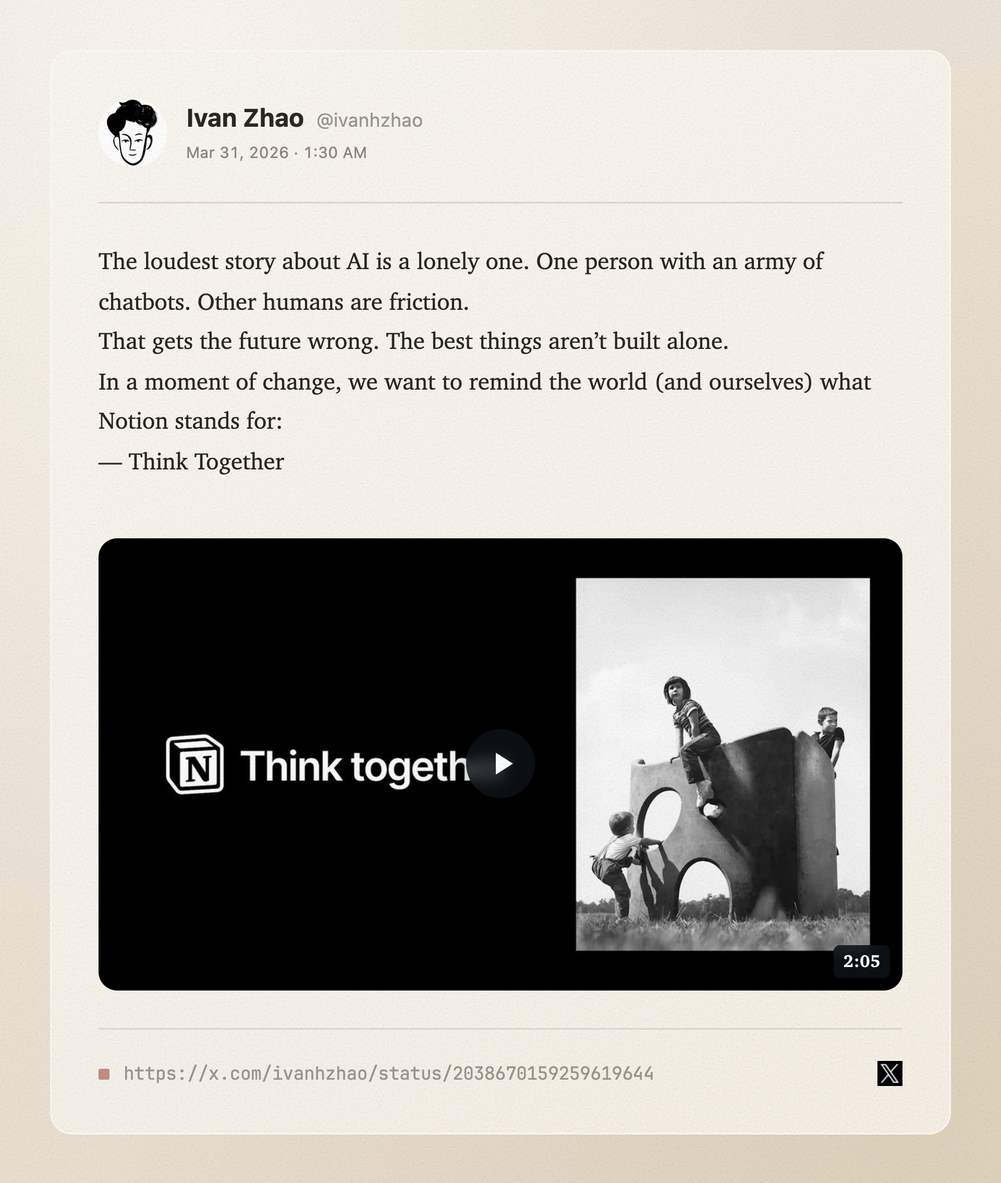
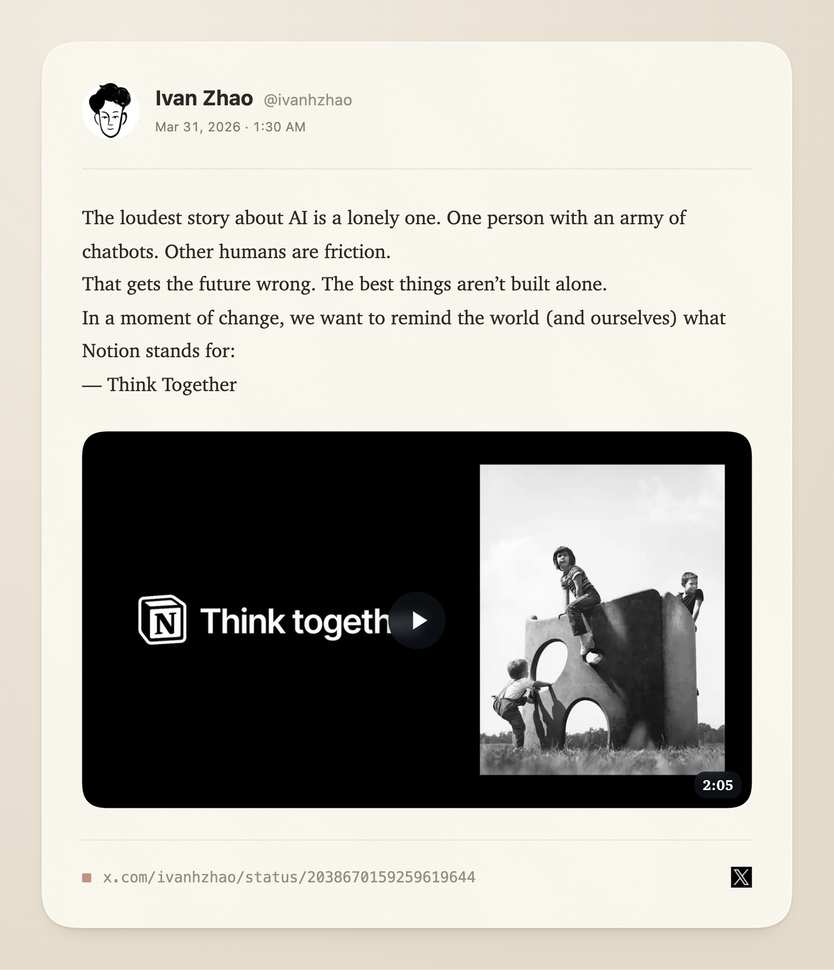
docs: refresh current theme preview images [skip ci]

diff --git a/README.md b/README.md
@@ -5,9 +5,9 @@
 在 **X、知乎、ChatGPT、Gemini** 上可以分享整条内容；在公众号文章和其他网页上，选中文字就能分享。QuickShare 会保留文字、图片和原有排版，并提供三种卡片主题。打开预览后，图片会自动复制到剪贴板，也可以保存为 PNG。
 
 <p align="center">
-  <a href="docs/preview-raycast-dark.png"><img src="docs/preview-raycast-dark.png" alt="曜石主题" width="31%"></a>
-  <a href="docs/preview-liquid-glass.png"><img src="docs/preview-liquid-glass.png" alt="冰川玻璃主题" width="31%"></a>
-  <a href="docs/preview-craft-editorial.png"><img src="docs/preview-craft-editorial.png" alt="暖纸墨色主题" width="31%"></a>
+  <a href="docs/preview-raycast-dark.png"><img src="docs/preview-raycast-dark.png?v=0.3.13" alt="曜石主题" width="31%"></a>
+  <a href="docs/preview-liquid-glass.png"><img src="docs/preview-liquid-glass.png?v=0.3.13" alt="冰川玻璃主题" width="31%"></a>
+  <a href="docs/preview-craft-editorial.png"><img src="docs/preview-craft-editorial.png?v=0.3.13" alt="暖纸墨色主题" width="31%"></a>
 </p>
 
 *示例：[Ivan Zhao 的 X 帖子](https://x.com/ivanhzhao/status/2038670159259619644)。*
